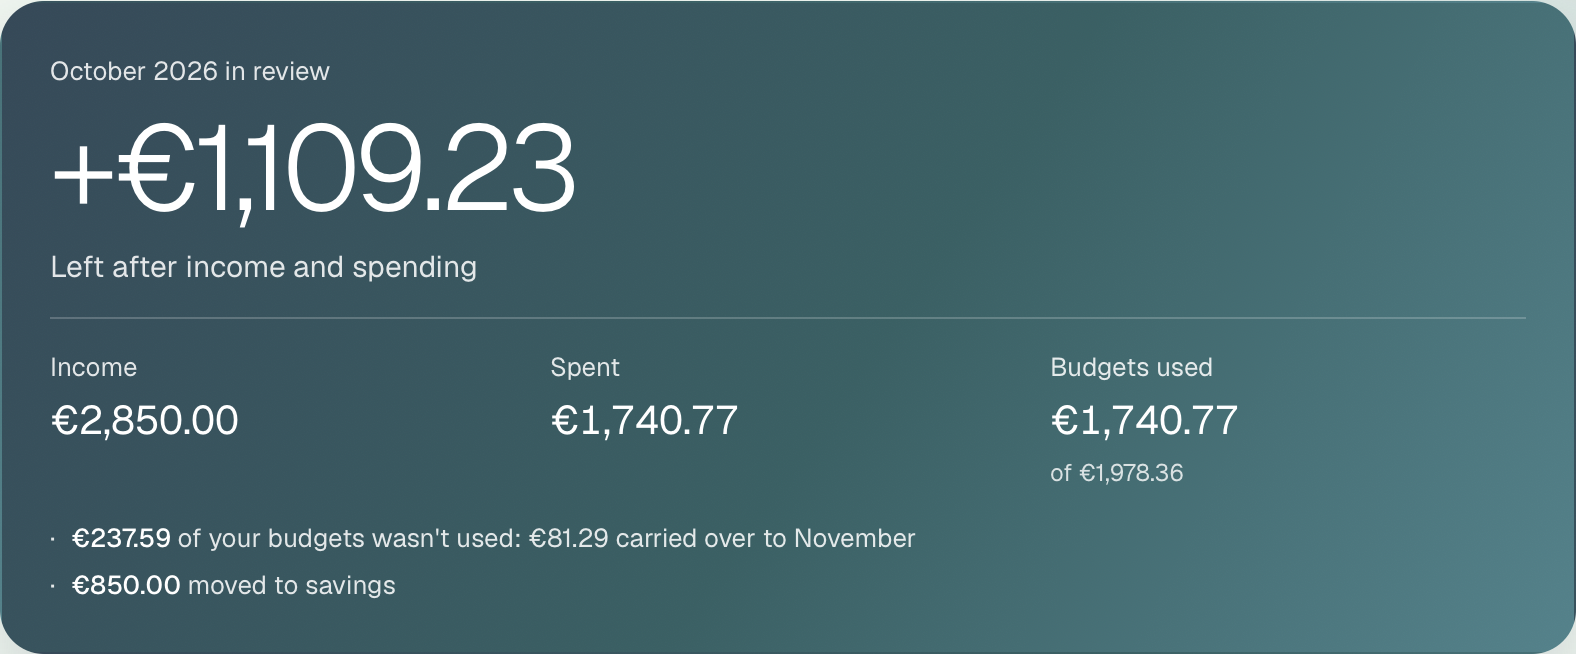
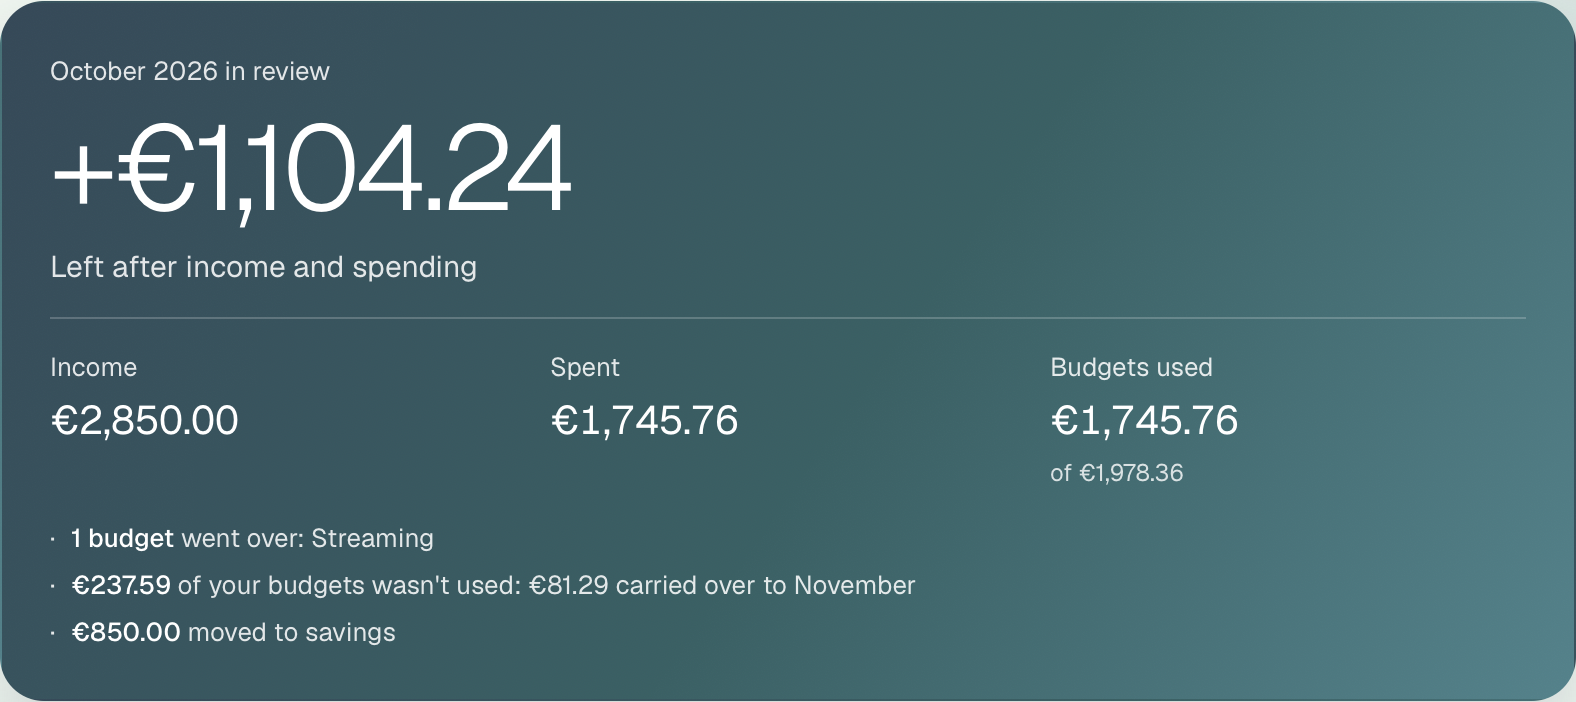
Raise the demo's streaming price from July, so History shows a budget that no longer fits

diff --git a/app/demo.py b/app/demo.py
@@ -9,6 +9,9 @@ YEAR = TODAY.year
 MONTHS = [f"{YEAR}-{m:02d}" for m in range(1, TODAY.month + 1)]
 THIS_MONTH, FIRST = MONTHS[-1], MONTHS[0]
 NEXT_MONTH = f"{YEAR + TODAY.month // 12}-{TODAY.month % 12 + 1:02d}"
+# The streaming service raises its price four months ago (from July in November), so its €18
+# budget goes over from then on: History shows a budget that no longer fits, as happens in real life.
+PRICE_RISE = MONTHS[max(1, len(MONTHS) - 5)] if len(MONTHS) > 1 else None
 
 # Budgets in euros: {category: {item: amount}}, or {category: amount} without items.
 BUDGETS = {
@@ -52,7 +55,7 @@ def seed():
             add(f"{month}-02", "Pulse Fitness", 3500, "Gym")
             add(f"{month}-03", "Bright Energy", random.randint(9500, 11800), "Energy")
             add(f"{month}-05", "FiberNet", 4500, "Internet")
-            add(f"{month}-06", "Streamly", 1800, "Streaming")
+            add(f"{month}-06", "Streamly", 2299 if PRICE_RISE and month >= PRICE_RISE else 1800, "Streaming")
             add(f"{month}-08", "Mobile Co", 2500, "Phone")
             add(f"{month}-25", "Northwind Ltd", 285000, note="Salary", kind="income")
             add(f"{month}-26", "", 85000, note="Monthly savings", kind="save")
